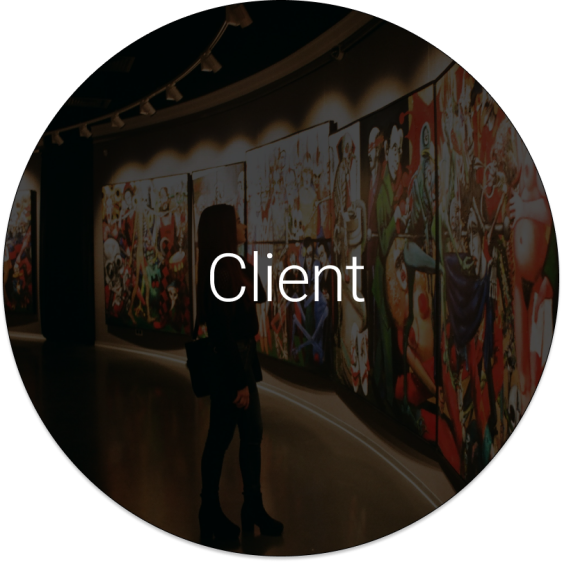
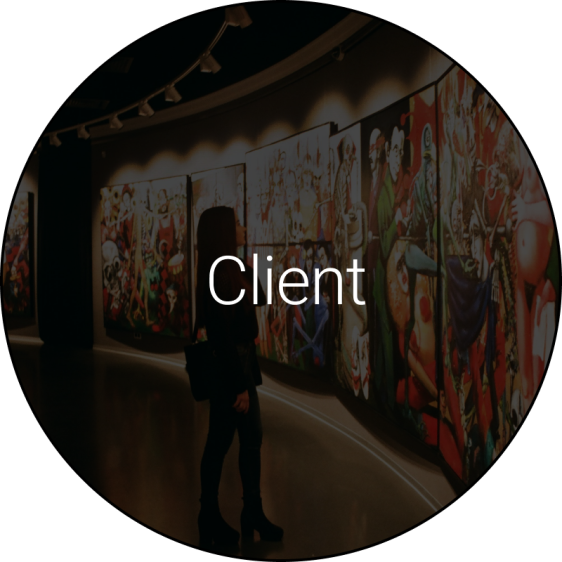
mauseoverimg component added

diff --git a/src/pages/Home.js b/src/pages/Home.js
@@ -1,8 +1,14 @@
 import { Button, Stack, Typography } from "@mui/material";
 import { Link } from "react-router-dom";
+import { useState } from "react";
 import ClientImg from "../Assets/EllipseClient.png";
 import ManagerImg from "../Assets/EllipseManager.png";
 import ArtistImg from "../Assets/EllipseArtist.png";
+import ClientImgo from "../Assets/Ellipseclient.png";
+import ManagerImgo from "../Assets/Ellipsemanager.png";
+import ArtistImgo from "../Assets/Ellipseartist.png";
+
+import { ImageOnOver } from "./Components/ImageOnOver";
 export const Home = () => {
   return (
     <>
@@ -20,13 +26,15 @@ export const Home = () => {
           alignItems={"baseline"}
         >
           <Link to="/Client">
-            <img src={ClientImg} width={"75%"}></img>
+          <ImageOnOver onTrue={ClientImgo} onFalse={ClientImg}  widthProp={'75%'} ></ImageOnOver>
           </Link>
           <Link to="/ManagerEvent">
-            <img src={ManagerImg} width={"100%"}></img>
-          </Link>
+          
+          <ImageOnOver onTrue={ManagerImgo} onFalse={ManagerImg}  widthProp={'100%'} ></ImageOnOver>
+           </Link>
           <Link to="/Artist">
-            <img src={ArtistImg} width={"75%"}></img>
+          
+          <ImageOnOver onTrue={ArtistImgo} onFalse={ArtistImg} widthProp={'75%'} ></ImageOnOver>
           </Link>
         </Stack>
       </Stack>

diff --git a/src/pages/Components/ImageOnOver.js b/src/pages/Components/ImageOnOver.js
@@ -1,0 +1,19 @@
+import { useState } from "react";
+export const ImageOnOver = ({onFalse , onTrue, widthProp}) => {
+  const [over, setOver] = useState(false);
+  return (
+    <>
+      <img
+        style={{
+          border: "solid 0px black",
+          borderRadius: "100%",
+          boxShadow: "5px 2px 3px 2px gray ",
+        }}
+        src={over ? onTrue : onFalse}
+        width={widthProp}
+        onMouseOver={() => setOver(true)}
+        onMouseOut={() => setOver(false)}
+      ></img>
+    </>
+  );
+};
